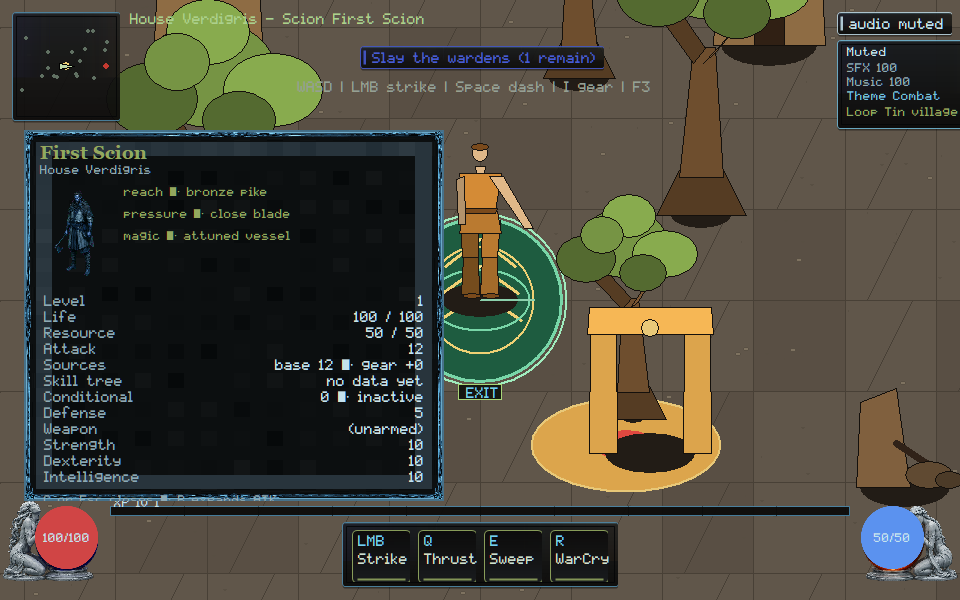
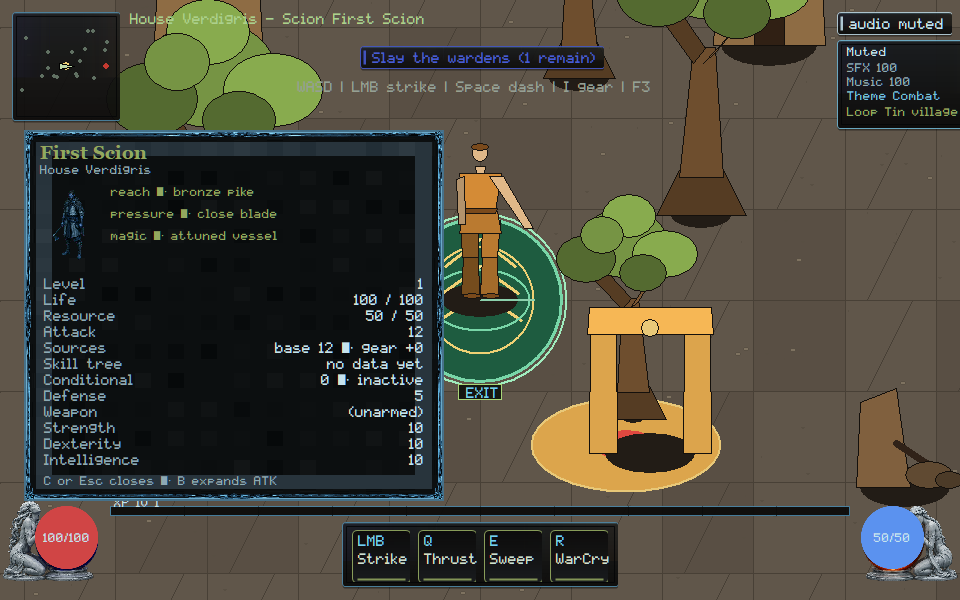
native: pin C or Esc closes on the character sheet so a clipped footer cannot certify

Changed region(s): [[0.0312, 0.3, 0.3125, 0.84], [0.2812, 0.48, 0.4375, 0.81]]

diff --git a/native/client/main.cpp b/native/client/main.cpp
@@ -5638,20 +5638,24 @@ void paint_character_pane(ClientState& state, HDC dc, const RECT& bounds,
            static_cast<int>(state.world.house_name.size()));
 
   // Fit portrait + stat rows inside the combat-HUD-clamped slot. Covering
-  // the life orb to keep a 150px plate cannot certify.
+  // the life orb to keep a 150px plate cannot certify. A min row height that
+  // overflows the close hint also cannot certify — leftover/n always wins.
   const int header_h = 56 * s;
   const int footer_h = 32 * s;
   const int n_rows = 12 + extra_rows;
-  int portrait_h = 150 * s;
-  int row_h = 26 * s;
   const int stack_gap = 14 * s;
   const int inner = std::max(0, pane_h - header_h - footer_h);
+  const int min_row = 16 * s;
+  int portrait_h = 150 * s;
+  int row_h = 26 * s;
   if (portrait_h + stack_gap + n_rows * row_h > inner) {
-    portrait_h = std::min(portrait_h, std::max(40 * s, inner / 3));
+    const int room_for_portrait =
+        inner - stack_gap - n_rows * min_row;
+    portrait_h = std::max(40 * s, std::min(portrait_h, room_for_portrait));
   }
-  if (portrait_h + stack_gap + n_rows * row_h > inner) {
+  {
     const int leftover = std::max(0, inner - portrait_h - stack_gap);
-    row_h = n_rows > 0 ? std::max(16 * s, leftover / n_rows) : row_h;
+    if (n_rows > 0) row_h = std::max(1, leftover / n_rows);
   }
 
   // Portrait: the player plate, drawn tall on the left of the sheet.
@@ -5797,8 +5801,17 @@ void paint_character_pane(ClientState& state, HDC dc, const RECT& bounds,
   SelectObject(dc, skin::font_small());
   SetTextColor(dc, skin::kInkDim);
   const char* footer = "C or Esc closes · B expands ATK";
-  TextOutA(dc, left + 20 * s, y + 8 * s, footer,
+  SIZE footer_extent{};
+  GetTextExtentPoint32A(dc, footer, static_cast<int>(strlen(footer)),
+                        &footer_extent);
+  const int footer_y = top + pane_h - footer_h + 6 * s;
+  TextOutA(dc, left + 20 * s, footer_y, footer,
            static_cast<int>(strlen(footer)));
+  state.hud_rect_trace.push_back(
+      {"character-pane-footer",
+       {left + 20 * s, footer_y, footer_extent.cx, footer_extent.cy}});
+  rl.push_back({render::Op::Hud, static_cast<double>(left + 20 * s),
+                static_cast<double>(footer_y), 0.0, 0, "char:close-hint"});
   SelectObject(dc, old_font);
   RestoreDC(dc, saved_dc);
 }
@@ -12672,6 +12685,25 @@ int scenario_hud_pane_readability() {
     scenario_check(
         !verdigris::client::ui::controls_on_character_fails_review(overlap),
         "hud-pane-readability: relocated controls are the production sheet HUD");
+    const HudRect* footer = trace_find(state, "character-pane-footer");
+    scenario_check(footer != nullptr && footer->w > 40,
+                   "hud-pane-readability: close hint is measured on the sheet");
+    scenario_check(pane && footer && !hud_rects_overlap(*pane, *life) &&
+                       footer->y + footer->h <= pane->y + pane->h &&
+                       footer->y >= pane->y,
+                   "hud-pane-readability: close hint stays inside the sheet slot");
+    scenario_check(
+        life && footer && !hud_rects_overlap(*footer, *life),
+        "hud-pane-readability: close hint never enters the life orb");
+    scenario_check(
+        render_list_has(state, render::Op::Hud, "char:close-hint"),
+        "hud-pane-readability: live HUD names the close hint");
+    scenario_check(
+        verdigris::client::ui::missing_sheet_close_fails_review(false),
+        "hud-pane-readability: a clipped close hint is the anti-pattern");
+    scenario_check(
+        !verdigris::client::ui::missing_sheet_close_fails_review(true),
+        "hud-pane-readability: C or Esc closes is the production footer");
     std::ifstream probe(png_sheet, std::ios::binary);
     scenario_check(probe.good(),
                    "hud-pane-readability: character capture readable");

diff --git a/docs/execution/pack/tools/emit_crosswalk_registry.py b/docs/execution/pack/tools/emit_crosswalk_registry.py
@@ -17,13 +17,13 @@ CURSOR = {
     "VG-GOV-005": ("extend", "software sample is the GPU trial; gpu-sample is not an engine port"),
     "VG-GOV-006": ("extend", "death-disconnect HUD; silent extract ack on disconnect cannot pass; core D-106 stays Kimi"),
     "VG-GOV-008": ("new", "pack tools/roadmap.py validate + unittest"),
-    "VG-UI-001": ("extend", "pane-stack native Escape; helper depth alone cannot prove"),
+    "VG-UI-001": ("extend", "pane-stack native Escape; helper depth alone cannot prove; close hint stays in slot"),
     "VG-UI-002": ("extend", "pack-drag occupancy; reject cannot lose/duplicate/silent-equip; sim inventory-move stays Kimi"),
     "VG-UI-003": ("extend", "equipment compare plate is ack-only; pending cannot gold-frame as equipped"),
-    "VG-UI-004": ("extend", "stat-explain expandable ATK; dormant cannot fold into Attack; core STAT stays Kimi"),
+    "VG-UI-004": ("extend", "stat-explain expandable ATK; dormant cannot fold into Attack; core STAT stays Kimi; close hint stays in slot"),
     "VG-UI-005": ("extend", "route-map zoom/opacity; off-snapshot blip cannot pass; Owner Demo journeys not reimplemented"),
     "VG-UI-006": ("extend", "Owner Demo — do not duplicate"),
-    "VG-UI-007": ("extend", "hud-scale-floor + hud-pane-readability + vital-orbs roles"),
+    "VG-UI-007": ("extend", "hud-scale-floor + hud-pane-readability + vital-orbs roles; close hint pinned"),
     "VG-UI-008": ("new", "pad-path XInput on tick"),
     "VG-ART-001": ("extend", "visual-target in-game sheet"),
     "VG-ART-002": ("extend", "bronze-stone family"),

diff --git a/native/client/ui/add-readable-stat-explanations.hpp b/native/client/ui/add-readable-stat-explanations.hpp
@@ -44,4 +44,7 @@ inline bool character_covers_life_orb_fails_review(bool overlap) {
   return overlap;
 }
 
+inline const char* owner_sheet_close_label() { return "C or Esc closes"; }
+inline bool missing_sheet_close_fails_review(bool present) { return !present; }
+
 }  // namespace verdigris::client::ui

diff --git a/docs/execution/CROSSWALK.md b/docs/execution/CROSSWALK.md
@@ -33,13 +33,13 @@ Cursor evidence notes.
 
 | VG | Disposition | Existing |
 |---|---|---|
-| VG-UI-001 | extend | native Escape stack (`pane-stack`); owner Stack 2 / Escape closes; absent tree hides seats; invented origin cannot pass; WASD cannot overlay the open tree |
+| VG-UI-001 | extend | native Escape stack (`pane-stack`); owner Stack 2 / Escape closes; absent tree hides seats; invented origin cannot pass; WASD cannot overlay the open tree; C or Esc closes stays in the sheet slot |
 | VG-UI-002 | extend | TASK-0171 INTEGRATED, 0184 BRIDGE_PREP; `pack-drag`; reject cannot lose/duplicate/silent-equip |
 | VG-UI-003 | extend | paper-doll + ack-only HUD (`equipment`); pending compare cannot gold-frame as equipped; `progression-surface` owner Skill tree / No data yet (TASK folder cannot certify) |
-| VG-UI-004 | extend | TASK-0156, 0159 INTEGRATED; `stat-explain` expandable ATK; dormant cannot fold into Attack; WASD stays off the C-key sheet |
+| VG-UI-004 | extend | TASK-0156, 0159 INTEGRATED; `stat-explain` expandable ATK; dormant cannot fold into Attack; WASD stays off the C-key sheet; close hint stays in the slot |
 | VG-UI-005 | extend | TASK-0076 INTEGRATED; 0178/0192/0203 Owner Demo; `route-map` zoom/opacity cannot reveal off-snapshot targets |
 | VG-UI-006 | extend | TASK-0145/0177 + 0190/0197/0201 — **do not duplicate** |
-| VG-UI-007 | extend | TASK-0159 INTEGRATED, 0118 READY, 0207; `hud-pane-readability` at 960/1366/3440 + tree/character keep-out + `hud-scale-floor` + live window; TASK-0159 folder capture cannot certify; VG-UI-006 Owner Demo not duplicated |
+| VG-UI-007 | extend | TASK-0159 INTEGRATED, 0118 READY, 0207; `hud-pane-readability` at 960/1366/3440 + tree/character keep-out + `hud-scale-floor` + live window; TASK-0159 folder capture cannot certify; clipped C or Esc closes cannot certify; VG-UI-006 Owner Demo not duplicated |
 | VG-UI-008 | new | XInput tick path + glyphs (`pad-path`); not mouse emulation |
 | VG-ART-001/002/004 | extend | TASK-0141 INTEGRATED — village kit + collision-proxy ops (`kit-chunk`); not artist-local collision |
 | VG-ART-003/006 | extend | TASK-0122 INTEGRATED; 0173/0174 READY; 0186/0187 BRIDGE_PREP — Cursor paints melee **poses** (VG-ART-003) and WarCry **weave labels** plus Phase A spawn/fade (VG-ART-006) without taking TASK-0173 models or re-speccing TASK-0108 |
@@ -263,7 +263,8 @@ strip paints Stack 2 / Escape closes. Helper depth alone cannot prove.
 Absent P-key tree paints No seats yet; an invented origin seat cannot
 certify. Open tree keep-out relocates WASD; overlaying the pane cannot
 certify. Open character sheet keep-out relocates WASD; deleting the hint
-cannot certify. Scenario `pane-stack`. Evidence
+cannot certify. The C or Esc closes footer stays inside the sheet slot;
+clipping it cannot certify. Scenario `pane-stack`. Evidence
 `docs/execution/evidence/VG-UI-001.json`.
 VG-MOVE-005: TASK-0165 focus reducer gates WASD, combat, pickup, and pack
 drag. Owner strip paints Focus gear / No buffer. Closing a pane cannot
@@ -333,8 +334,8 @@ strip paints Type floor / Ink contrast. Shrink type cannot certify.
 `hud-pane-readability` recapture at 960/1366/3440 stays pairwise
 disjoint; no owner review strip on that scenario. Open P-key tree never
 intersects identity/controls/objective/minimap/quickbar/orbs. Open C-key
-sheet never intersects identity/controls/objective; WASD remains. The
-sheet sits below the minimap and above Life. An X on
+sheet never intersects identity/controls/objective; WASD remains. The sheet sits below the minimap and above Life. C or Esc closes stays
+in the slot. An X on
 the mana globe cannot count as a non-color cue. Scenarios `vital-orbs` /
 `hud-scale-floor` / `hud-pane-readability`. Evidence
 `docs/execution/evidence/VG-UI-007.json`.
@@ -352,7 +353,8 @@ HUD ops. Owner strip paints Base Gear / Cond off. Owner paint uses
 Base/Gear, not `src` jargon. Slice builds on the sheet are role · gear
 chips; tactics stay on HUD ops. A dormant conditional cannot fold into
 Attack. Core STAT stays Kimi. WASD stays off the C-key sheet. The sheet
-sits below the minimap and above Life. Scenario
+sits below the minimap and above Life. The close hint stays in the slot.
+Scenario
 `stat-explain`. Evidence
 `docs/execution/evidence/VG-UI-004.json`.
 VG-UI-002: `pack-drag` — reject cannot lose, duplicate, or silently equip.

diff --git a/docs/execution/CROSSWALK_REGISTRY.md b/docs/execution/CROSSWALK_REGISTRY.md
@@ -135,13 +135,13 @@ not implemented here.
 | VG-ART-006 | G3 | extend | weave-vfx; animation-vfx-phase-a spawn once; not TASK-0108 |
 | VG-ART-007 | G3 | extend | Owner Demo — do not duplicate |
 | VG-ART-008 | G3 | extend | Owner Demo — do not duplicate |
-| VG-UI-001 | G1 | extend | pane-stack native Escape; absent tree hides seats; invented origin cannot prove; WASD keep-out for tree and character |
+| VG-UI-001 | G1 | extend | pane-stack native Escape; absent tree hides seats; invented origin cannot prove; WASD keep-out for tree and character; close hint stays in the sheet slot |
 | VG-UI-002 | G2 | extend | pack-drag occupancy; reject cannot lose/duplicate/silent-equip; sim inventory-move stays Kimi |
 | VG-UI-003 | G2 | extend | equipment ack-only; progression-surface Skill tree / No data yet; absent tree pane hides seats; WASD keep-out |
-| VG-UI-004 | G2 | extend | stat-explain owner Base/Gear labels; dormant cannot fold into Attack; WASD off C-key sheet |
+| VG-UI-004 | G2 | extend | stat-explain owner Base/Gear labels; dormant cannot fold into Attack; WASD off C-key sheet; close hint stays in the slot |
 | VG-UI-005 | G3 | extend | route-map zoom/opacity; off-snapshot blip cannot pass; Owner Demo journeys not reimplemented |
 | VG-UI-006 | G2 | extend | Owner Demo — do not duplicate |
-| VG-UI-007 | G3 | extend | hud-pane-readability 960/1366/3440 + tree/character keep-out; sheet below map above Life; not VG-UI-006; TASK-0159 folder cannot certify |
+| VG-UI-007 | G3 | extend | hud-pane-readability 960/1366/3440 + tree/character keep-out; sheet below map above Life; close hint pinned; not VG-UI-006; TASK-0159 folder cannot certify |
 | VG-UI-008 | G4 | new | pad-path XInput on tick |
 | VG-SOUND-001 | G1 | new | sound-adapter |
 | VG-SOUND-002 | G2 | new | legal-sounds |

diff --git a/orchestration/CURSOR_KIMI_LANES.md b/orchestration/CURSOR_KIMI_LANES.md
@@ -921,3 +921,13 @@ Please move off that branch before taking a new native path.
 - **Stay off** `native/client/main.cpp` and `docs/execution/**`. SEC/CORE
   remain yours. GOV-002 still unstamped.
 
+## Cursor reply (2026-09-06, C or Esc closes stays on the sheet)
+
+- **Lease:** `main.cpp` still **ACTIVE**. `remote_session.cpp` stays
+  **RELEASED**. Do not re-spec TASK-0108 core/wire (`3b929637`).
+- **Landed this push:** VG-UI-007/001/004 — C-key close hint pinned in the
+  sheet slot; a clipped footer rejected. STAT algebra stays yours.
+  Captures viewed. Not Owner Demo.
+- **Stay off** `native/client/main.cpp` and `docs/execution/**`. SEC/CORE
+  remain yours. GOV-002 still unstamped.
+

diff --git a/docs/rebuild/HANDOFF.md b/docs/rebuild/HANDOFF.md
@@ -1,5 +1,14 @@
 # Native reconstitution handoff
 
+## 2026-09-06 — C or Esc closes stays on the sheet (Cursor)
+
+- VG-UI-007 / VG-UI-001 / VG-UI-004: the C-key close hint is pinned to the
+  bottom of the combat-HUD-clamped slot. Compacting rows cannot clip
+  C or Esc closes. Covering Life or deleting the hint cannot certify.
+  WASD stay off the pane. TREE absence copy is unchanged.
+- Scenarios `hud-pane-readability` / `pane-stack` / `stat-explain` PASS.
+  Captures viewed. Not Owner Demo. Not TASK-0108.
+
 ## 2026-09-06 — Sheet below map, above Life (Cursor)
 
 - VG-UI-007 / VG-UI-001 / VG-UI-004: the C-key First Scion sheet now sits
